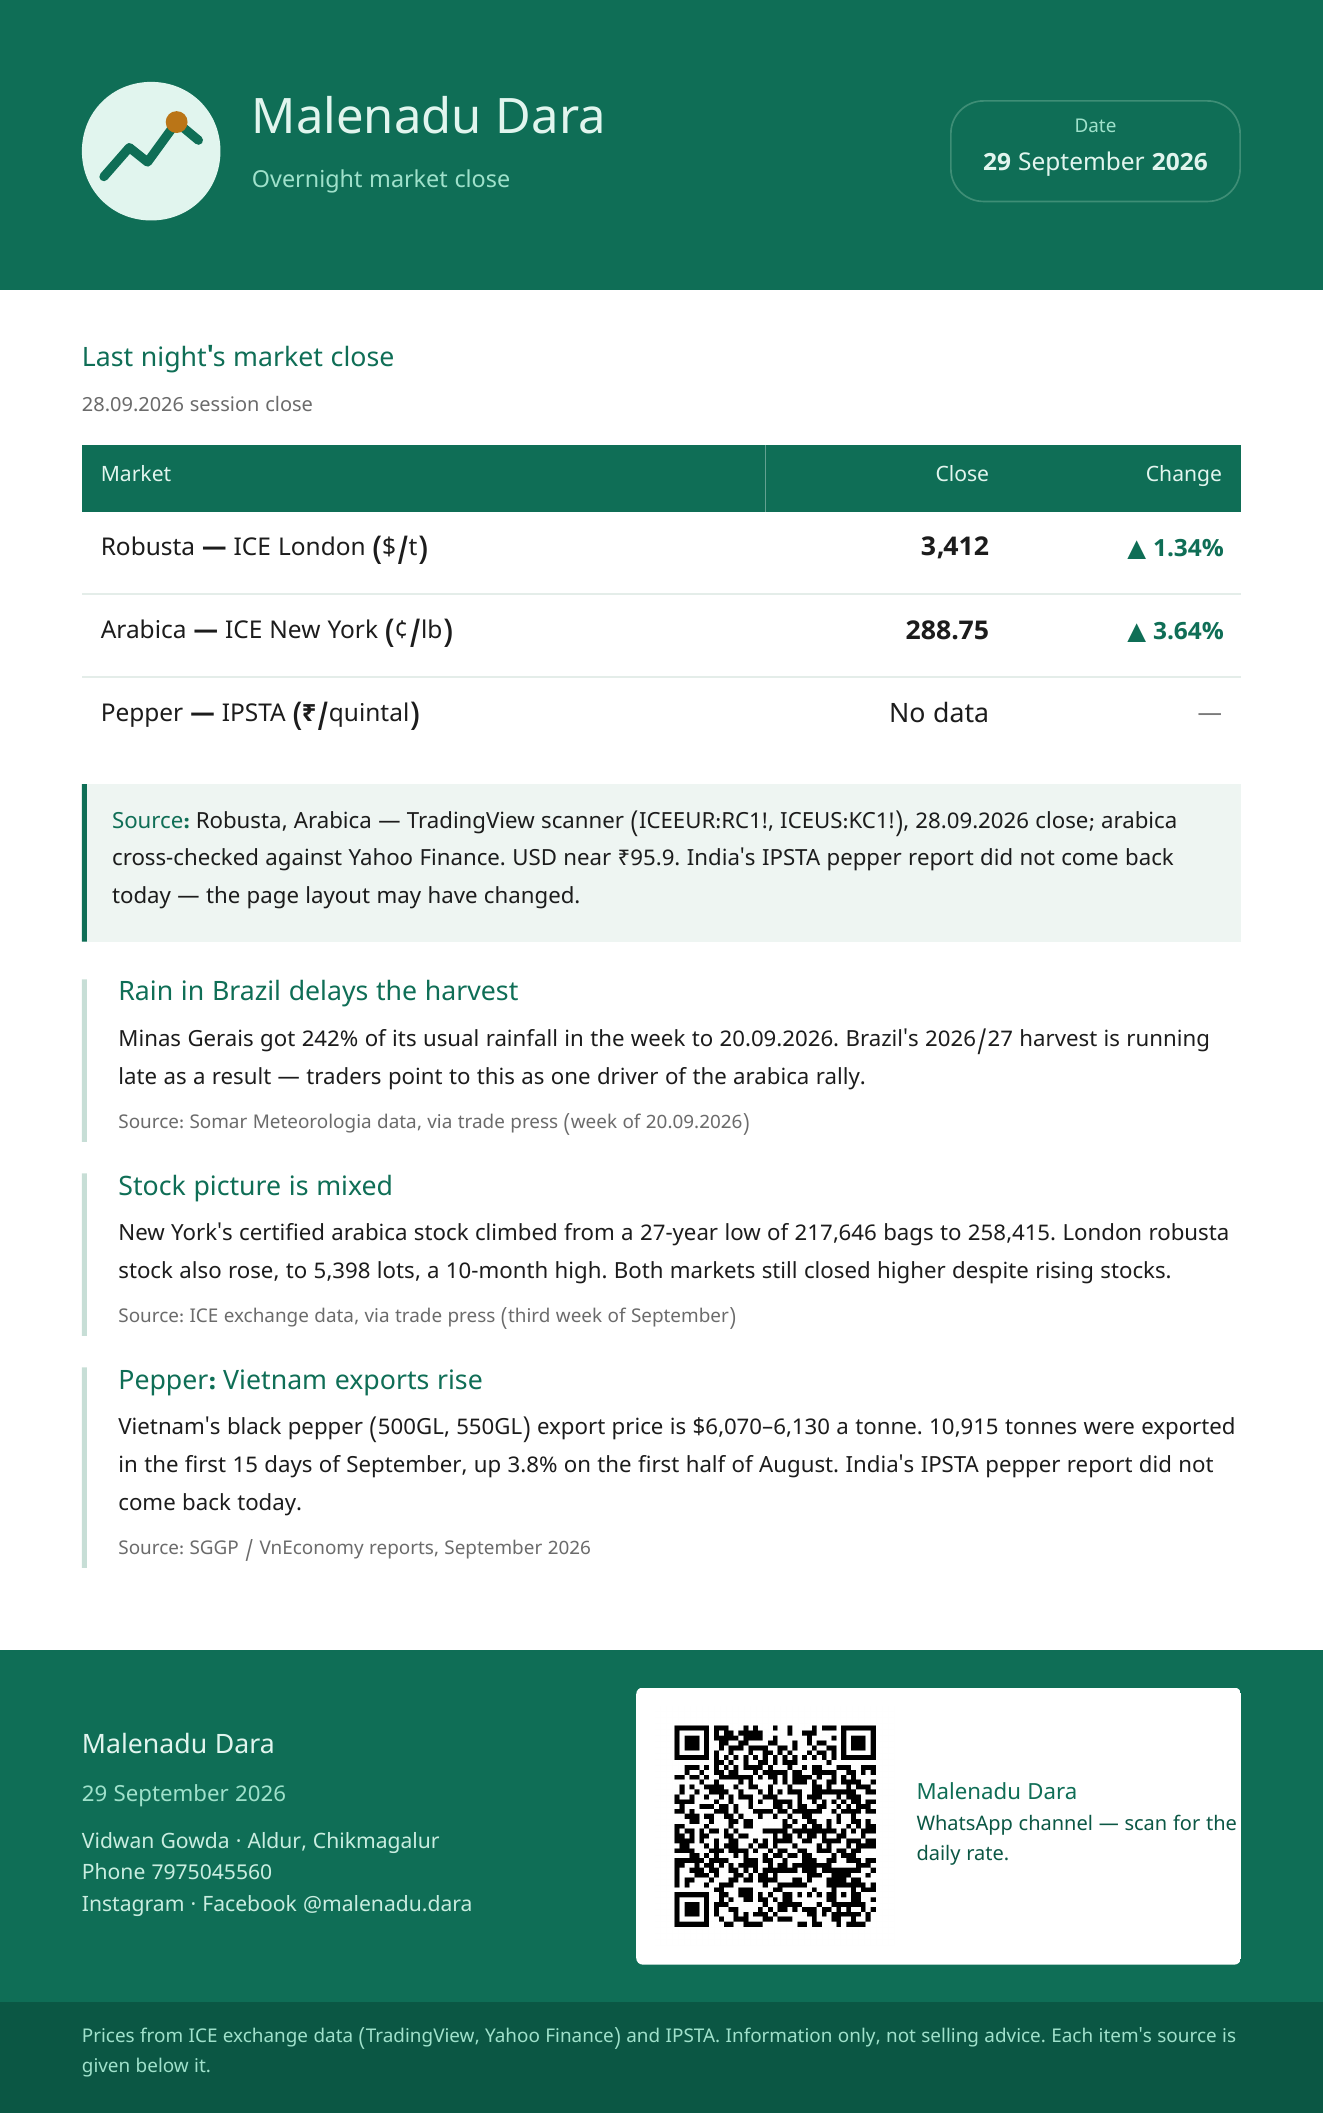
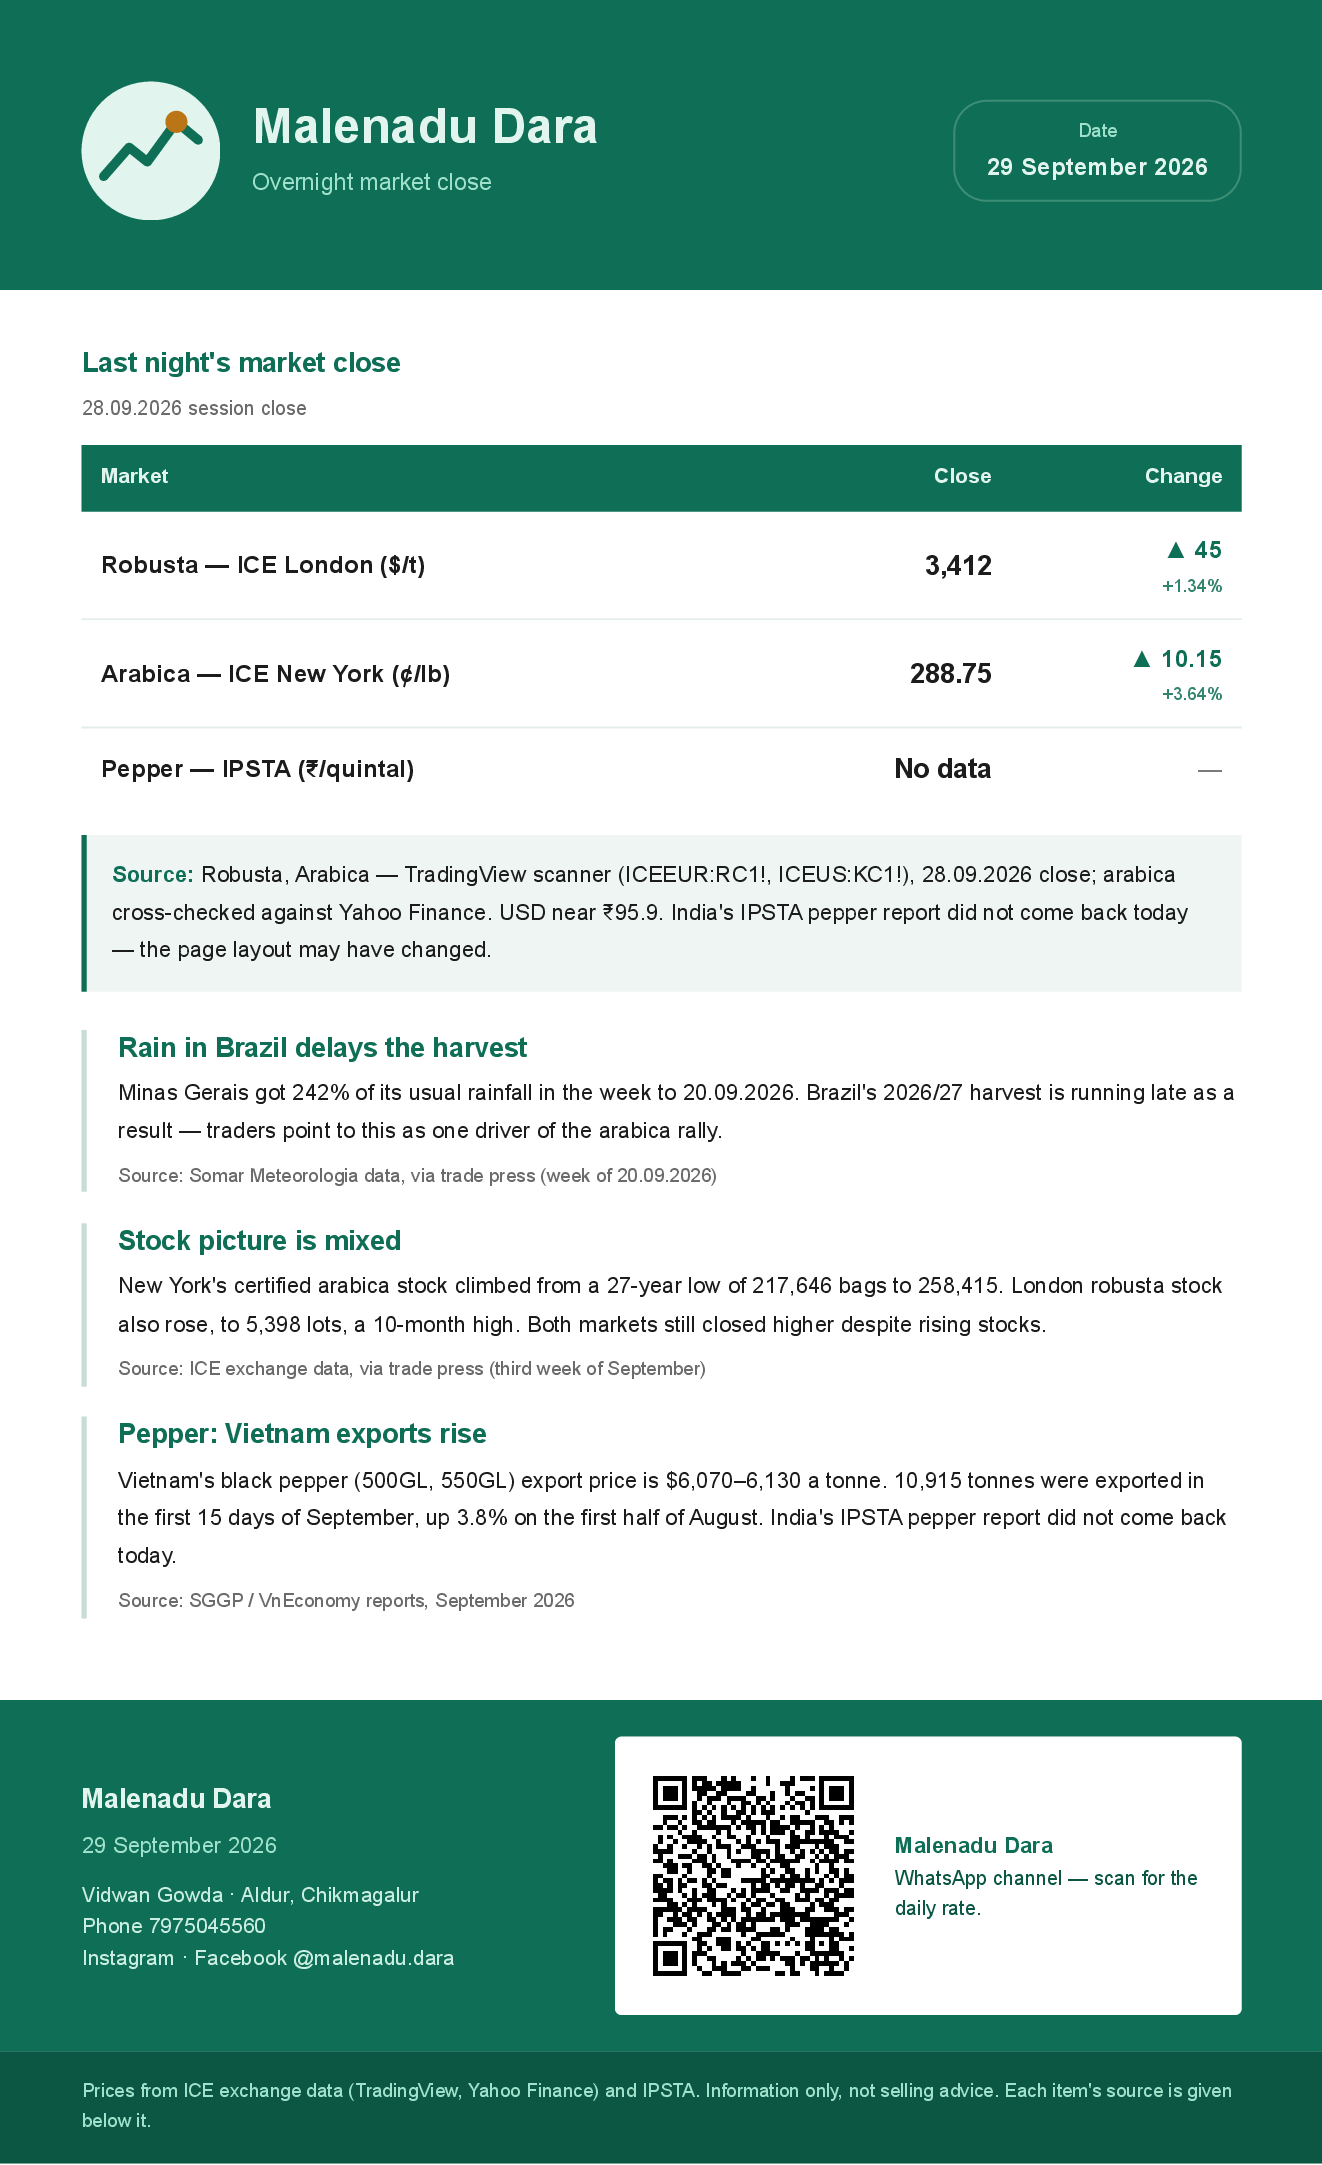
Show absolute change beside percent on market close cards
Rebuild the 2026-09-29 market cards with change_abs from prices.json and
add the rule to the daily skill so the routine keeps doing it.

diff --git a/editions/2026-09-29/market/work/market-kn.html b/editions/2026-09-29/market/work/market-kn.html
@@ -53,11 +53,13 @@ b { font-weight:700; }
 table { width:100%; border-collapse:collapse; }
 th { font-size:23px; color:#8A8A8A; font-weight:400; text-align:left;
      padding:0 0 16px 0; border-bottom:2px solid #E8E8E8; letter-spacing:0.6px; }
-th.r, td.r { text-align:right; }
+th.r, td.r { text-align:right; padding-left:24px; }
+td.g { font-size:31px; }
 td { font-size:36px; padding:26px 0; border-bottom:2px solid #F0F0F0; }
 td.g { font-weight:700; }
 td.v { font-weight:700; white-space:nowrap; }
-td.d { font-size:30px; }
+td.d { font-size:30px; white-space:nowrap; }
+td.d .pct { display:block; font-size:22px; font-weight:400; opacity:.85; }
 .dn { color:#B4231F; font-weight:700; }
 .up { color:#0F6E56; font-weight:700; }
 .flat { color:#A0A0A0; }
@@ -96,8 +98,8 @@ td.d { font-size:30px; }
     <h2>ಕಳೆದ ರಾತ್ರಿಯ ಮಾರ್ಕೆಟ್ ಕ್ಲೋಸ್</h2>
     <table>
       <tr><th>ಮಾರ್ಕೆಟ್ · 28.09.2026 ಕ್ಲೋಸ್</th><th class="r">ಕ್ಲೋಸ್</th><th class="r">ಬದಲಾವಣೆ</th></tr>
-      <tr><td class="g">ರೊಬಸ್ಟಾ — ICE ಲಂಡನ್ ($/ಟನ್)</td><td class="r v">3,412</td><td class="r d up">▲1.34%</td></tr>
-      <tr><td class="g">ಅರೇಬಿಕಾ — ICE ನ್ಯೂಯಾರ್ಕ್ (¢/ಪೌಂಡ್)</td><td class="r v">288.75</td><td class="r d up">▲3.64%</td></tr>
+      <tr><td class="g">ರೊಬಸ್ಟಾ — ICE ಲಂಡನ್ ($/ಟನ್)</td><td class="r v">3,412</td><td class="r d up">▲45<span class="pct">+1.34%</span></td></tr>
+      <tr><td class="g">ಅರೇಬಿಕಾ — ICE ನ್ಯೂಯಾರ್ಕ್ (¢/ಪೌಂಡ್)</td><td class="r v">288.75</td><td class="r d up">▲10.15<span class="pct">+3.64%</span></td></tr>
       <tr><td class="g">ಕರಿಮೆಣಸು — IPSTA (₹/ಕ್ವಿಂಟಲ್)</td><td class="r v">ಡೇಟಾ ಇಲ್ಲ</td><td class="r d flat">—</td></tr>
     </table>
     <div class="note">ರೊಬಸ್ಟಾ, ಅರೇಬಿಕಾ ದರ 28.09.2026ರ ಕ್ಲೋಸ್ — ಮೂಲ: TradingView ಸ್ಕ್ಯಾನರ್ (ICEEUR:RC1!, ICEUS:KC1!), ಅರೇಬಿಕಾ ಸಂಖ್ಯೆ Yahoo Finance ಜೊತೆ ಹೋಲಿಸಿ ಖಚಿತಪಡಿಸಲಾಗಿದೆ. ಡಾಲರ್ ದರ ₹95.9ರ ಹತ್ರ (28.09.2026). ಕರಿಮೆಣಸಿನ IPSTA ವರದಿ ಇವತ್ತು ಸಿಗಲಿಲ್ಲ — ವೆಬ್ಸೈಟ್ ಪೇಜ್ ಫಾರ್ಮ್ಯಾಟ್ ಬದಲಾಗಿರಬಹುದು.</div>

diff --git a/editions/2026-09-29/market/work/tall-kn.html b/editions/2026-09-29/market/work/tall-kn.html
@@ -44,10 +44,11 @@ table.price .rate { font-weight:700; font-size:12pt; white-space:nowrap; }
 .fdate { color:#9FE1CB; font-size:10pt; margin-top:1mm; }
 .fcontact { color:#C9EDE0; font-size:9.5pt; margin-top:2mm; line-height:1.5; }
 .joincard { background:#FFFFFF; border-radius:4px; padding:3mm; display:flex; align-items:center; gap:3.5mm; }
-.qr { width:38mm; height:38mm; display:block; }
+.qr { width:44mm; height:44mm; display:block; image-rendering:pixelated; }
 .jointxt { font-size:9pt; color:#0B5744; line-height:1.5; max-width:52mm; }
 .jointxt b { font-size:10pt; color:#0F6E56; }
 .fnote { background:#0B5744; color:#9FE1CB; font-size:8.5pt; padding:3.5mm 13mm 4.5mm 13mm; line-height:1.6; }
+td .pct { display:block; font-size:0.72em; font-weight:400; opacity:.85; }
 </style>
 </head>
 <body>
@@ -74,8 +75,8 @@ table.price .rate { font-weight:700; font-size:12pt; white-space:nowrap; }
 
 <table class="price">
   <tr><th>ಮಾರ್ಕೆಟ್</th><th class="r">ಕ್ಲೋಸ್</th><th class="r">ಬದಲಾವಣೆ</th></tr>
-  <tr><td class="grade">ರೊಬಸ್ಟಾ — ICE ಲಂಡನ್ ($/ಟನ್)</td><td class="r rate">3,412</td><td class="r up">▲ 1.34%</td></tr>
-  <tr><td class="grade">ಅರೇಬಿಕಾ — ICE ನ್ಯೂಯಾರ್ಕ್ (¢/ಪೌಂಡ್)</td><td class="r rate">288.75</td><td class="r up">▲ 3.64%</td></tr>
+  <tr><td class="grade">ರೊಬಸ್ಟಾ — ICE ಲಂಡನ್ ($/ಟನ್)</td><td class="r rate">3,412</td><td class="r up">▲ 45<span class="pct">+1.34%</span></td></tr>
+  <tr><td class="grade">ಅರೇಬಿಕಾ — ICE ನ್ಯೂಯಾರ್ಕ್ (¢/ಪೌಂಡ್)</td><td class="r rate">288.75</td><td class="r up">▲ 10.15<span class="pct">+3.64%</span></td></tr>
   <tr><td class="grade">ಕರಿಮೆಣಸು — IPSTA (₹/ಕ್ವಿಂಟಲ್)</td><td class="r rate">ಡೇಟಾ ಇಲ್ಲ</td><td class="r flat">—</td></tr>
 </table>
 

diff --git a/editions/2026-09-29/market/work/market-en.html b/editions/2026-09-29/market/work/market-en.html
@@ -53,11 +53,12 @@ b { font-weight:700; }
 table { width:100%; border-collapse:collapse; }
 th { font-size:23px; color:#8A8A8A; font-weight:400; text-align:left;
      padding:0 0 16px 0; border-bottom:2px solid #E8E8E8; letter-spacing:0.6px; }
-th.r, td.r { text-align:right; }
+th.r, td.r { text-align:right; padding-left:28px; }
 td { font-size:36px; padding:26px 0; border-bottom:2px solid #F0F0F0; }
 td.g { font-weight:700; }
 td.v { font-weight:700; white-space:nowrap; }
-td.d { font-size:30px; }
+td.d { font-size:30px; white-space:nowrap; }
+td.d .pct { display:block; font-size:22px; font-weight:400; opacity:.85; }
 .dn { color:#B4231F; font-weight:700; }
 .up { color:#0F6E56; font-weight:700; }
 .flat { color:#A0A0A0; }
@@ -96,8 +97,8 @@ td.d { font-size:30px; }
     <h2>Overnight market close</h2>
     <table>
       <tr><th>Market · 28.09.2026 close</th><th class="r">Close</th><th class="r">Change</th></tr>
-      <tr><td class="g">Robusta — ICE London ($/t)</td><td class="r v">3,412</td><td class="r d up">▲1.34%</td></tr>
-      <tr><td class="g">Arabica — ICE New York (¢/lb)</td><td class="r v">288.75</td><td class="r d up">▲3.64%</td></tr>
+      <tr><td class="g">Robusta — ICE London ($/t)</td><td class="r v">3,412</td><td class="r d up">▲45<span class="pct">+1.34%</span></td></tr>
+      <tr><td class="g">Arabica — ICE New York (¢/lb)</td><td class="r v">288.75</td><td class="r d up">▲10.15<span class="pct">+3.64%</span></td></tr>
       <tr><td class="g">Pepper — IPSTA (₹/quintal)</td><td class="r v">No data</td><td class="r d flat">—</td></tr>
     </table>
     <div class="note">Robusta and Arabica are the 28.09.2026 session close — source: TradingView scanner (ICEEUR:RC1!, ICEUS:KC1!), arabica cross-checked against Yahoo Finance. USD near ₹95.9 (28.09.2026). India's IPSTA pepper report did not come back today — the page layout may have changed.</div>

diff --git a/editions/2026-09-29/market/work/tall-en.html b/editions/2026-09-29/market/work/tall-en.html
@@ -48,6 +48,7 @@ table.price .rate { font-weight:700; font-size:12pt; white-space:nowrap; }
 .jointxt { font-size:9pt; color:#0B5744; line-height:1.5; max-width:52mm; }
 .jointxt b { font-size:10pt; color:#0F6E56; }
 .fnote { background:#0B5744; color:#9FE1CB; font-size:8.5pt; padding:3.5mm 13mm 4.5mm 13mm; line-height:1.6; }
+td .pct { display:block; font-size:0.72em; font-weight:400; opacity:.85; }
 </style>
 </head>
 <body>
@@ -74,8 +75,8 @@ table.price .rate { font-weight:700; font-size:12pt; white-space:nowrap; }
 
 <table class="price">
   <tr><th>Market</th><th class="r">Close</th><th class="r">Change</th></tr>
-  <tr><td class="grade">Robusta — ICE London ($/t)</td><td class="r rate">3,412</td><td class="r up">▲ 1.34%</td></tr>
-  <tr><td class="grade">Arabica — ICE New York (¢/lb)</td><td class="r rate">288.75</td><td class="r up">▲ 3.64%</td></tr>
+  <tr><td class="grade">Robusta — ICE London ($/t)</td><td class="r rate">3,412</td><td class="r up">▲ 45<span class="pct">+1.34%</span></td></tr>
+  <tr><td class="grade">Arabica — ICE New York (¢/lb)</td><td class="r rate">288.75</td><td class="r up">▲ 10.15<span class="pct">+3.64%</span></td></tr>
   <tr><td class="grade">Pepper — IPSTA (₹/quintal)</td><td class="r rate">No data</td><td class="r flat">—</td></tr>
 </table>
 

diff --git a/.claude/skills/malenadu-dara-daily/SKILL.md b/.claude/skills/malenadu-dara-daily/SKILL.md
@@ -87,6 +87,27 @@ Note also that the Karnataka rates in a given report are dated the **previous**
 day. Put the price date on the price card and the publication date in the
 header; collapsing them is the easiest way to mislead someone.
 
+## Market close shows the move in units and in percent
+
+On the market close cards (`market/`, and the futures rows anywhere else), the
+change cell carries **both** numbers: the absolute move in the row's own unit
+on top, the percent underneath. A grower reads "▲45 $/t" faster than "▲1.34%".
+
+```html
+<td class="r d up">▲45<span class="pct">+1.34%</span></td>
+```
+
+with `td.d .pct { display:block; font-size:22px; font-weight:400; opacity:.85; }`
+in the card CSS (tall images: `td .pct { display:block; font-size:0.72em; … }`).
+The narrower cell needs a gutter or the Close and Change headings run together:
+`th.r, td.r { padding-left:24px; }` and `td.d { white-space:nowrap; }`. On the
+Kannada card also drop `td.g` to 31px so the market names stay on one line.
+Rerun the tall-image QR check. It is borderline on the Kannada tall image; if
+it fails, raise `.qr` to 44mm in that copy.
+Take both from `sources/<date>/prices/prices.json` — `change_abs` and
+`change_pct`. If `change_abs` is missing, print the percent alone; never
+back-calculate a move from a single close.
+
 ## No report on Sundays and holidays
 
 The Board publishes on working days only. On a blank day, carry the last
